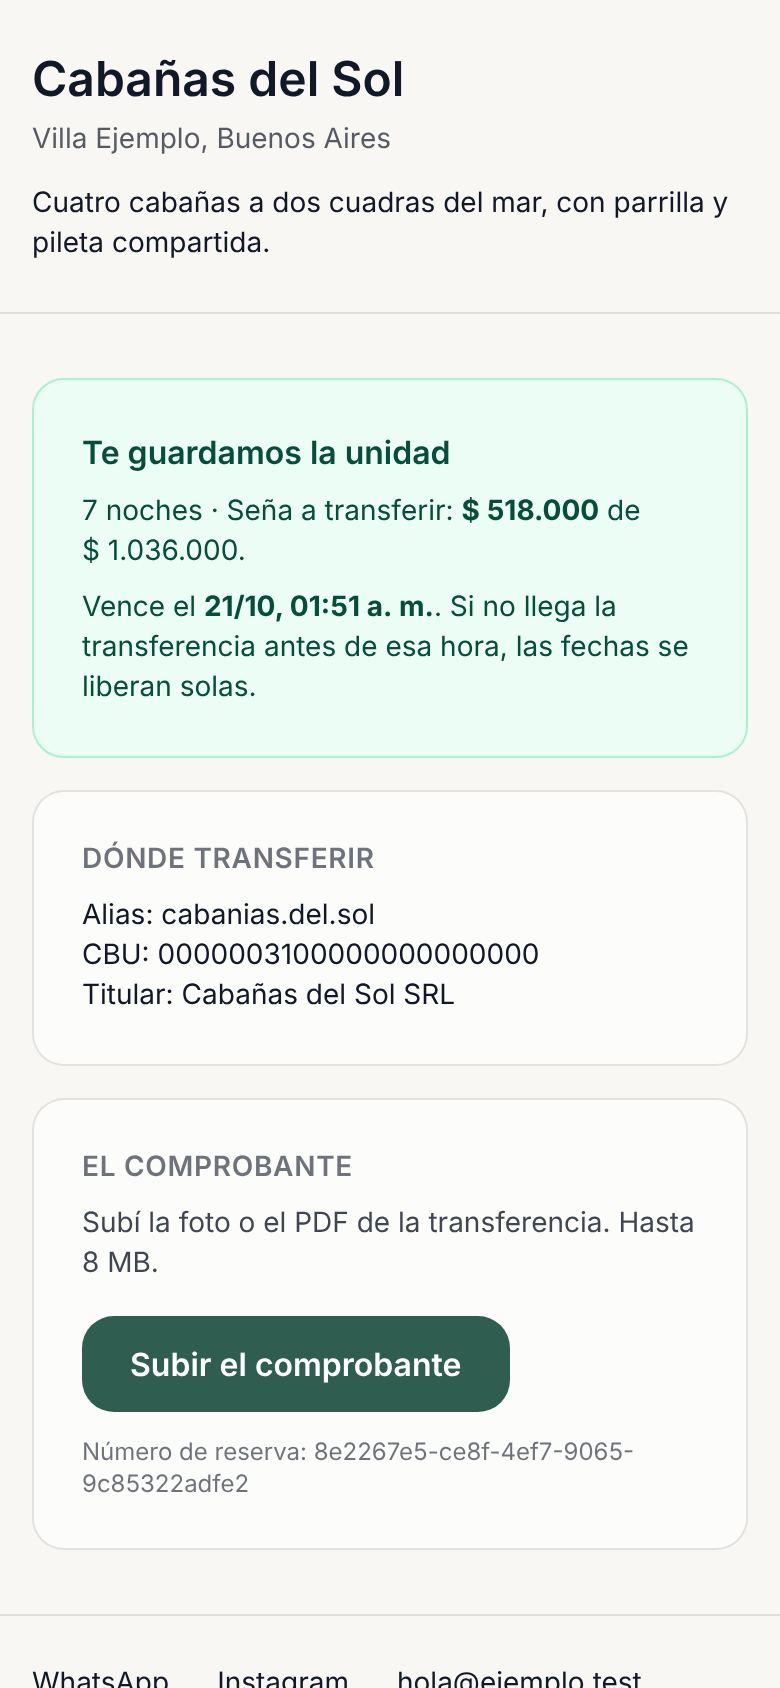
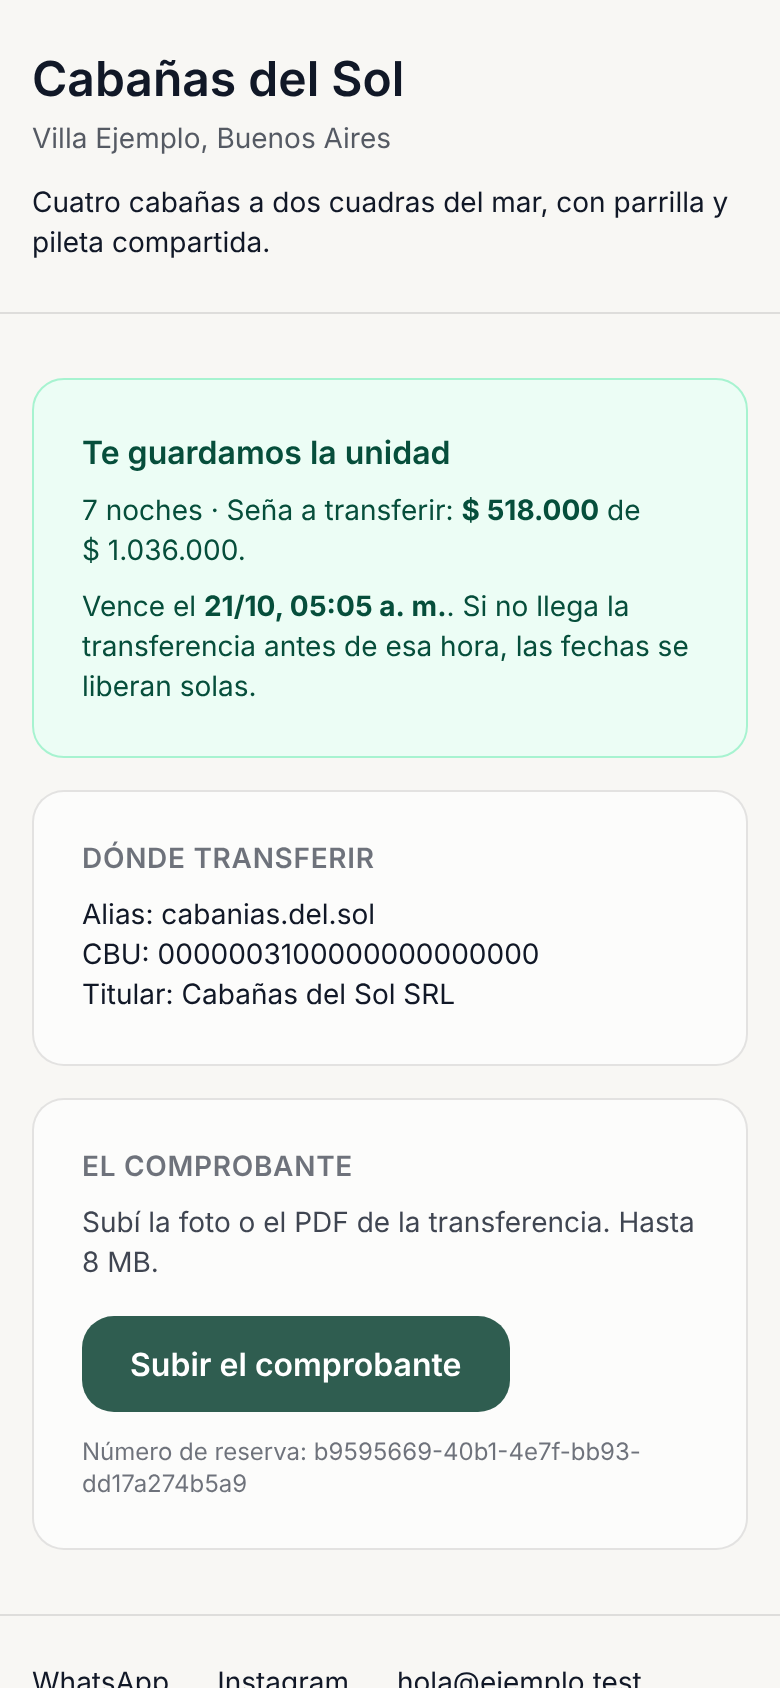
prueba:comercial lee el número de la calculadora dentro de #cuenta; capturas al día (#19)
Con los planes arriba de la calculadora, «el primer p.text-3xl de la
página» pasó a ser el precio de un plan, y la prueba decía que la
calculadora no calculaba. La calculadora andaba.

Capturas de nuevo contra producción: la huella cambió con #17 (/conv).

Claude-Session: https://claude.ai/code/session_01PeX3A5kHMPng74jQYSqc5q

diff --git a/src/components/comercial/capturas.generado.ts b/src/components/comercial/capturas.generado.ts
@@ -9,7 +9,7 @@
  * afirmación sobre un producto que ya puede haber cambiado.
  */
 
-export const CAPTURAS_SACADAS_EL = '2026-10-20';
+export const CAPTURAS_SACADAS_EL = '2026-10-21';
 
 export const CAPTURAS = {
   'huesped-eligiendo': {
